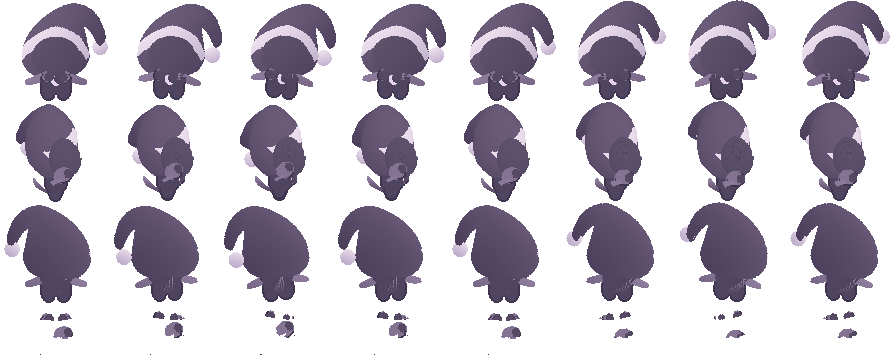
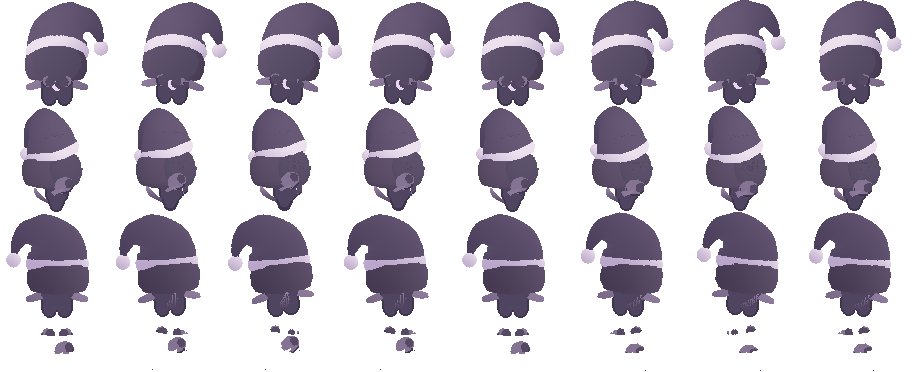
ツキミが頭にかぶるナイトキャップを作る

diff --git a/tools/art/spirit3d/light_dark.py b/tools/art/spirit3d/light_dark.py
@@ -6,8 +6,7 @@
 """
 from math import pi
 import numpy as np
-from PIL import Image, ImageDraw
-from scipy.ndimage import binary_erosion, distance_transform_edt
+from scipy.interpolate import PchipInterpolator
 
 from core import Q, QH, TAILBASE, Spirit, ry
 
@@ -84,38 +83,56 @@ def chest_mark(body, dark):
     return at,pigment
 
 
+def cuff_height(front):
+    return 48.5+11*np.maximum(front,0)**1.37+2*np.minimum(front,0)
+
+
 def night_cap():
-    """帽子の外周を丸め、一つながりの断面から厚みを作る。"""
-    contour = np.array([
-        (-13,23),(-25,27),(-32,35),(-34,45),(-32,56),(-27,67),
-        (-17,79),(-4,89),(12,96),(24,96),(35,91),(43,82),(48,70),
-        (49,61),(46,56),(42,56),(39,61),(34,69),(28,74),(30,63),
-        (32,53),(33,43),(28,32),(19,26),(9,23),
-    ], dtype=float)
-    outline = []
-    for i in range(len(contour)):
-        a,b,c,d = contour[(i+np.array([-1,0,1,2]))%len(contour)]
-        for t in np.linspace(0,1,10,endpoint=False):
-            point = (2*b+(-a+c)*t+(2*a-5*b+4*c-d)*t*t+
-                     (-a+3*b-3*c+d)*t*t*t)/2
-            outline.append(tuple(point))
-    xs = np.arange(-39,53,QH)
-    ys = np.arange(-42,30,QH)
-    zs = np.arange(20,100,QH)
-    mask = Image.new('1',(len(xs),len(zs)))
-    ImageDraw.Draw(mask).polygon([((x-xs[0])/QH,(z-zs[0])/QH)
-                                  for x,z in outline],fill=1)
-    front = np.array(mask).T
-    distance = distance_transform_edt(front)*QH
-    depth = np.interp(zs,(20,37,53,68,80,92,100),(11,23,26,26,22,14,5))
-    inset = np.minimum(distance,depth)
-    half = np.sqrt(inset*(2*depth-inset))
-    cx,cz = np.meshgrid(xs,zs,indexing='ij')
-    center = -5-.98*np.maximum(0,cx-24)-.10*np.maximum(0,cz-71)
-    body = front[:,None,:] & (np.abs(ys[None,:,None]-center[:,None,:])
-                             <= half[:,None,:])
-    x,y,z = np.nonzero(body & ~binary_erosion(body,iterations=2))
-    return np.column_stack((xs[x],ys[y],zs[z]))
+    """折り返しの上辺から、垂れた先まで断面をつないだ布の帽子。"""
+    theta = np.linspace(0,2*pi,640,endpoint=False)
+    dx,dy = np.cos(theta),np.sin(theta)
+    low = cuff_height(dy)
+    # 折り返しは頭の外周をまわる、厚みのある帯。
+    t = np.linspace(0,1,27)[:,None]
+    roll = np.sin(pi*t)
+    cuff = np.stack((dx*(29.7+1.55*roll),-5+dy*(24.8+1.6*roll),
+                     low+10.2*t),axis=-1).reshape(-1,3)
+    cuff_colors = tones(rgb('#b9a6ca'),rgb('#ede1ee'),
+                        np.clip(.51+.019*(cuff[:,2]-53)-.011*cuff[:,0]+.012*cuff[:,1],0,1))
+
+    # 軸は上から右うしろへ曲がり、房のつく先へ下がる。
+    rows = np.array([
+        (0, 0,-5,58.7,29.7,24.8),
+        (.18,1,-6,68,28.5,23.8),
+        (.36,7,-9,78,24,20),
+        (.53,17,-14,85,17.5,15),
+        (.67,28,-19,85.5,12,12),
+        (.80,36,-24,80,8,9),
+        (.91,41,-27,71,5,6),
+        (1,43,-29,63,2.5,3.5),
+    ])
+    u = np.linspace(0,1,336)
+    result = PchipInterpolator(rows[:,0],rows[:,1:],axis=0)(u)
+    center,radii = result[:,:3],result[:,3:]
+    forward = np.gradient(center,axis=0)
+    forward /= np.linalg.norm(forward,axis=1,keepdims=True)
+    side = np.cross(np.broadcast_to((0,1.,0),forward.shape),forward)
+    side /= np.linalg.norm(side,axis=1,keepdims=True)
+    depth = np.cross(forward,side)
+    fabric = (center[:,None,:]+dx[None,:,None]*radii[:,0,None,None]*side[:,None,:]
+              +dy[None,:,None]*radii[:,1,None,None]*depth[:,None,:])
+    # 根もとは折り返しと辺を共有し、上へ行く間に布の丸みへつなぐ。
+    rim = np.stack((29.7*dx,-5+24.8*dy,low+10.2),axis=1)
+    weight = np.clip(1-u/.24,0,1)**2
+    fabric += weight[:,None,None]*(rim-fabric[0])[None,:,:]
+    p = fabric.reshape(-1,3)
+    pigment = tones(rgb('#483d59'),rgb('#766583'),
+                    np.clip(.53+.005*(p[:,2]-72)-.005*p[:,0]+.007*p[:,1],0,1))
+    cloth = np.concatenate((cuff,p))
+    colors = np.concatenate((cuff_colors,pigment))
+    grid = np.rint(cloth/QH).astype(np.int16)
+    vertices,first = np.unique(grid,axis=0,return_index=True)
+    return texture(vertices.astype(float)*QH,colors[first])
 
 
 def mantle():
@@ -162,21 +179,17 @@ class LightDark(Spirit):
     def hood(self, dark):
         original = self.tex['hood'][0]
         if dark:
-            p = night_cap()
-            x,y,z = p.T
-            tint = np.clip(.55+.006*(z-60)-.006*x+.004*y,0,1)
-            color = tones(rgb('#453a56'),rgb('#766684'),tint)
-            # 折り返しは帽子の表面を回り、横に行くほど幅を細くする。
-            angle = np.arctan2(np.abs(x),y+7)/(pi/2)
-            top = 74-24*np.clip(angle,0,1)**1.55
-            width = 16*np.clip((1.14-angle)/.30,0,1)
-            trim = (z<top)&(z>top-width)
-            color[trim] = tones(rgb('#bbacc9'),rgb('#eee0ee'),
-                                np.clip(.63-.010*x[trim]+.012*(z[trim]-53),0,1))
-            pom = volume((44,-28,53),(7.5,7.4,7.6))
-            tint = np.clip(.54+.045*(pom[:,2]-53)-.029*(pom[:,0]-44)
-                           +.012*(pom[:,1]+28),0,1)
-            self.top('tip',pom,tones(rgb('#b8a5c7'),rgb('#eee1ee'),tint))
+            x,y,z = original.T
+            forward = (y+5)/np.maximum(np.hypot(x,y+5),1)
+            p = original[z<cuff_height(forward)+5]
+            tint = np.clip(.49+.007*(p[:,2]-38)-.012*p[:,0]+.005*p[:,1],0,1)
+            color = tones(rgb('#43384f'),rgb('#645570'),tint)
+            self.fixed_head_parts = ('cap','tip')
+            self.tex['cap'] = night_cap()
+            pom = volume((43.7,-29.5,57.1),(7.0,7.0,7.2))
+            tint = np.clip(.54+.045*(pom[:,2]-57.1)-.029*(pom[:,0]-43.7)
+                           +.012*(pom[:,1]+29.5),0,1)
+            self.tex['tip'] = texture(pom,tones(rgb('#b8a5c7'),rgb('#eee1ee'),tint))
         else:
             crown=surface([(62,-.5,-5,21.3,19.8),(69,0,-4,16,15),
                            (77,0,-3,9.5,10),(83,0,-2,4.5,5.5),

diff --git a/tools/art/spirit3d/rig.py b/tools/art/spirit3d/rig.py
@@ -56,7 +56,7 @@ def posed(sp, face, p):
     # 頭の色：カメラに近い向き（前・横・うしろ）の、いまの絵の色
     R0 = rz(-face*math.pi/2+g('spin')); v = rz(-(g('yaw')+g('hy')))@(R0.T@np.array([0, 1., 0]))
     ti = 0 if v[1] >= abs(v[0]) else 2 if -v[1] >= abs(v[0]) else 1
-    for nm in ('hood', 'face'):
+    for nm in ('hood', 'face')+sp.fixed_head_parts:
         if nm in sp.tex: out[nm] = (head(sp.tex[nm][0]), sp.tex[nm][1][ti], 't')
     for nm, base in sp.tops:
         P, C = sp.tex[nm]; C = C[ti]
@@ -91,7 +91,7 @@ def shoot(sp, face, p):
     GB = {'arm': 0.0, 'hand': 7.0, 'prop': 1.5}
     grp = {nm: (nm[-1] if nm.startswith(('arm', 'hand', 'prop')) else None) for nm in names}
     _, _, zc = V(parts['body'][0].mean(0)[None]); zc = zc[0]   # 体のまん中の奥行き
-    HEAD = ('hood', 'face')+tuple(nm for nm, _ in sp.tops); fa = np.zeros(Wd*Hd, bool)   # fa：頭に勝つ、うで・手・道具のドット
+    HEAD = ('hood', 'face')+sp.fixed_head_parts+tuple(nm for nm, _ in sp.tops); fa = np.zeros(Wd*Hd, bool)   # fa：頭に勝つ、うで・手・道具のドット
     hoodi = names.index('hood'); headcov = np.zeros(Wd*Hd, bool)   # ずきん・顔のうつる所（目をかさねる所。うでが前にあれば、目の上にもう1回描く）
     colors = {'cream': sp.body_color, 'creamf': sp.far_leg_color,
               'arm': sp.arm_color, 'hand': sp.hand}
@@ -106,7 +106,7 @@ def shoot(sp, face, p):
                 c = np.floor((X-EXT[0])*SSN).astype(int)+ox; r = np.floor((Y-EXT[2])*SSN).astype(int)+oy
                 ok = (c >= 0) & (c < Wd) & (r >= 0) & (r < Hd); j = r[ok]*Wd+c[ok]; z = Z[ok]; cc = C[ok]
                 o = np.lexsort((z, j)); j, z, cc = j[o], z[o], cc[o]; last = np.r_[j[1:] != j[:-1], True]; j, z, cc = j[last], z[last], cc[last]
-                if nm in ('hood', 'face'): headcov[j] |= (nm == 'hood') or facing
+                if nm in ('hood', 'face')+sp.fixed_head_parts: headcov[j] |= (nm != 'face') or facing
                 if nm == 'face':
                     bt = ((z > zb[j]) | ((idb[j] == hoodi) & facing)) & ~fa[j]
                     zb[j[bt]] = np.maximum(z[bt], zb[j[bt]]+0.5)

diff --git a/tools/art/spirit3d/core.py b/tools/art/spirit3d/core.py
@@ -152,6 +152,7 @@ class Spirit:
         self.far_leg_color = (239, 231, 218)
         self.chest = None
         self.cape = None
+        self.fixed_head_parts = ()
         self.solid = {'body': hull('sp:body0', 'sp:bodyS0', Q, bottom=(13.0, 6.5))[0], 'legL': hull('sp:footL', 'sp:footS', Q)[0], 'legR': hull('sp:footR', 'sp:footS', Q)[0]}
         self.tex = {}
         def textured(nm, front, side, fronttex, sidetex, backtex):

diff --git a/handoff/from-gpt.md b/handoff/from-gpt.md
@@ -35,10 +35,10 @@
 ### H-4 光と闇のせいれい
 
 - 持ち主の見本を元に3Dで組んだ。水の精霊と同じ顔、体、手足、骨と、共通の表情チップを使った。
-- トモリは金色のとんがり頭巾、七つの光、胸のしずく。ツキミは右へ垂れた紫の頭巾、うす紫の折り返しと房、肩の布、胸の三日月。しっぽは後ろからも見える位置に付けた。
-- ツキミの帽子は頭を包む部分から垂れた先まで一つながりにした。うす紫の折り返しは表面に沿って細くなり、房は垂れた先に付けた。11動作のツキミの絵を写し直した。
+- トモリは金色のとんがり頭巾、七つの光、胸のしずく。ツキミは右うしろへ垂れた紫のナイトキャップ、うす紫の折り返しと房、肩の布、胸の三日月。しっぽは後ろからも見える位置に付けた。
+- ツキミのナイトキャップは頭と別の部品にし、額に乗る折り返しから、房が付く先まで一続きの形にした。帽子と房は動作中に頭の動きに合わせて動く。11動作のツキミの絵を写し直した。
 - [正面・横・後ろ](files/H-4/character-views.png) ・ [歩く動き](files/H-4/walk.gif) ・ [動きの見本](files/H-4/motion-views.png)
-- `parts/` に頭巾・飾り・顔・しっぽなどの透過 PNG、`motions/` に11動作 × 2属性の WebP を置いた。各動作のシートは正面・横・後ろの順。全552コマが書き出され、16種類と外套の部品1つの大きさと透過も確認した。目の位置、手の位置、絵の基準は [sprites.json](files/H-4/sprites.json)。
+- `parts/` に頭巾・飾り・顔・しっぽなどの透過 PNG、`motions/` に11動作 × 2属性の WebP を置いた。各動作のシートは正面・横・後ろの順。全552コマが書き出され、帽子とその影を含む19点の部品の大きさと透過も確認した。目の位置、手の位置、絵の基準は [sprites.json](files/H-4/sprites.json)。
 - `python3 tools/art/spirit3d/build_handoff.py handoff/files/H-4` で同じ絵を作る。動作名を指定して別の動きも出せる。 `--all` で全動作を写す。
 - 水と風の精霊の既存の歩きは、変更前と3方向で同じ絵になることを確認した。ゲームでの表示とチップ登録は、絵の確認後に残っている。
 
